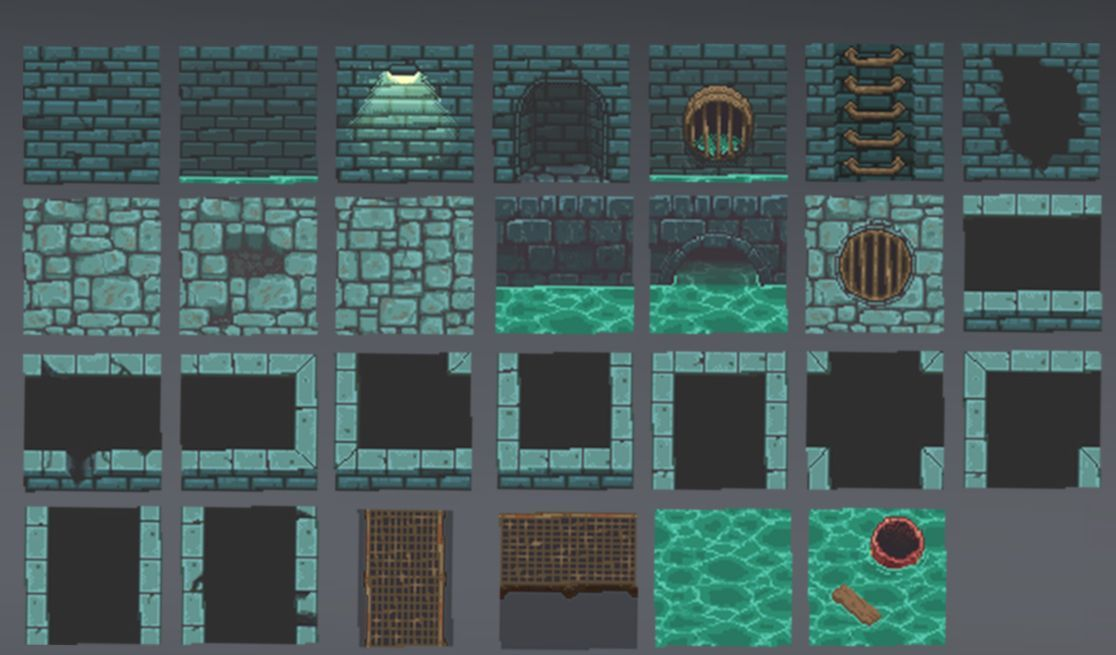
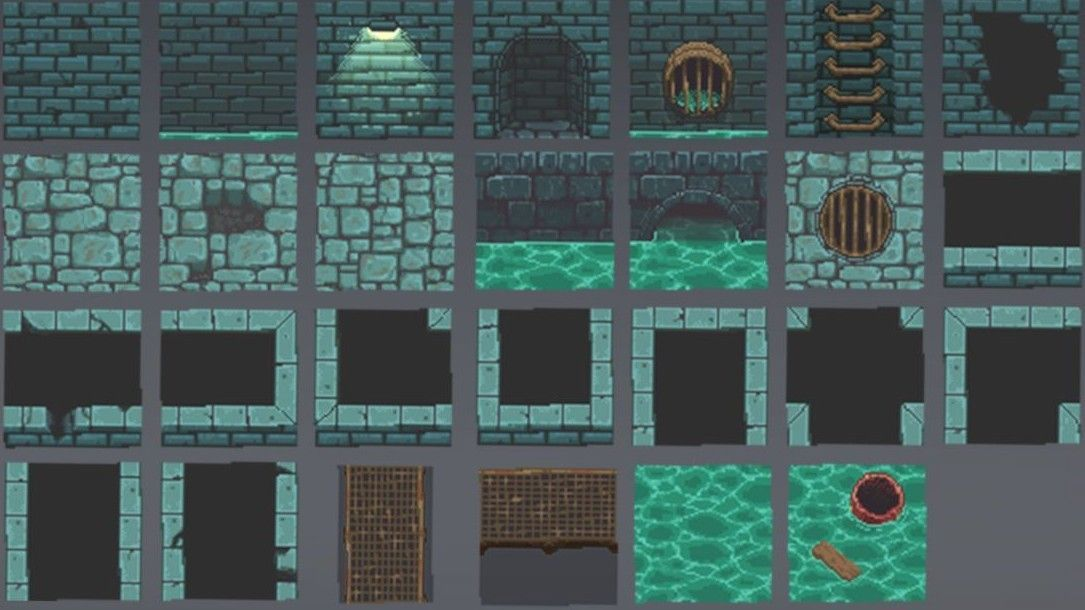
update map

diff --git a/src/main/java/uet/gryffindor/graphic/sprite/Sprite.java b/src/main/java/uet/gryffindor/graphic/sprite/Sprite.java
@@ -109,19 +109,15 @@ public class Sprite {
         rock = new Sprite(0, 0, 256, 256, SpriteSheet.rock);
         wall2D = new Sprite(0, 0, SpriteSheet.wall2D.getWidth(), SpriteSheet.wall2D.getHeight(), SpriteSheet.wall2D);
 
-        tiles = new Sprite[12];
-        tiles[0] = new Sprite(962, 194, 140, 137, SpriteSheet.tiles);
-        tiles[1] = new Sprite(21, 353, 140, 137, SpriteSheet.tiles);
-        tiles[2] = new Sprite(178, 353, 140, 137, SpriteSheet.tiles);
-        tiles[3] = new Sprite(338, 353, 140, 137, SpriteSheet.tiles);
-        tiles[4] = new Sprite(500, 353, 132, 137, SpriteSheet.tiles);
-        tiles[5] = new Sprite(652, 353, 140, 137, SpriteSheet.tiles);
-        tiles[6] = new Sprite(806, 353, 140, 137, SpriteSheet.tiles);
-        tiles[7] = new Sprite(965, 353, 140, 137, SpriteSheet.tiles);
-        tiles[8] = new Sprite(24, 508, 140, 137, SpriteSheet.tiles);
-        tiles[9] = new Sprite(180, 508, 140, 137, SpriteSheet.tiles);
-        tiles[10] = new Sprite(334, 44, 140, 137, SpriteSheet.tiles);
-        tiles[11] = new Sprite(962, 194, 140, 137, SpriteSheet.tiles);
+        tiles = new Sprite[28];
+        // tiles[0] = new Sprite(21, 44, 140, 137, SpriteSheet.tiles);
+        // tiles[1] = new Sprite(178, 353, 140, 137, SpriteSheet.tiles);
+        int x = 0;
+        for (int i = 0; i < 4; i++) {
+            for (int j = 0; j < 7; j++) {
+                tiles[(x++)] = new Sprite(157 * j, 157 * i, 140, 135, SpriteSheet.tiles);
+            }
+        }
 
         tilesFloor = new Sprite(333, 196, 140, 141, SpriteSheet.tiles);
 

diff --git a/src/main/java/uet/gryffindor/game/object/dynamics/Bomb.java b/src/main/java/uet/gryffindor/game/object/dynamics/Bomb.java
@@ -25,7 +25,7 @@ public class Bomb extends GameObject {
         texture = new SpriteTexture(Sprite.bomb[2], this);
         explored = false;
 
-        double rate = 4;
+        double rate = 2;
         aboutToExplore = new Animator(rate, Sprite.bomb);
         orderedLayer = OrderedLayer.MIDGROUND;
 
@@ -107,10 +107,10 @@ public class Bomb extends GameObject {
 
     /** Thêm 1 explosion tại (x,y) */
     public boolean addExplosionAt(int x, int y) {
-        int coordinatesX = x / Sprite.DEFAULT_SIZE;
-        int coordinatesY = y / Sprite.DEFAULT_SIZE;
+        int coordinatesX = (x + Sprite.DEFAULT_SIZE / 2) / Sprite.DEFAULT_SIZE;
+        int coordinatesY = (y + Sprite.DEFAULT_SIZE / 2) / Sprite.DEFAULT_SIZE;
         // nếu vướng tường , return false.
-        if (Manager.INSTANCE.getGame().getPlayingMap().getRawMapAt(coordinatesY, coordinatesX) != 0) {
+        if (entangle(coordinatesX, coordinatesY)) {
             return false;
         } else {
             Explosion e = new Explosion();
@@ -119,6 +119,14 @@ public class Bomb extends GameObject {
             GameObject.objects.add(e);
             return true;
         }
+    }
+
+    public boolean entangle(int coordinatesX, int coordinatesY) {
+        int symbol = Manager.INSTANCE.getGame().getPlayingMap().getRawMapAt(coordinatesY, coordinatesX);
+        if (symbol != 07 && symbol != 01 && symbol != 25 && symbol != 04 && symbol != 26) {
+            return true;
+        }
+        return false;
     }
 
     public void setExplored(boolean explored) {

diff --git a/src/main/java/uet/gryffindor/util/MapParser.java b/src/main/java/uet/gryffindor/util/MapParser.java
@@ -77,7 +77,7 @@ public class MapParser {
         for (int i = 0; i < height; i++) {
           for (int j = 0; j < width; j++) {
             rawMap[i][j] = scanner.nextInt();
-            System.out.print(rawMap[i][j] + " ");
+            // System.out.print(rawMap[i][j] + " ");
             Vector2D position = new Vector2D(j, i);
             GameObject object = decodeSymbol(rawMap[i][j]);
 
@@ -88,7 +88,7 @@ public class MapParser {
             }
 
           }
-          System.out.println();
+          // System.out.println();
         }
 
         Bomber player = new Bomber();
@@ -111,33 +111,12 @@ public class MapParser {
    * @return game object bị mã hóa
    */
   public static GameObject decodeSymbol(Integer symbol) {
-    switch (symbol) {
-    case 1: {
-      return new Tiles(1);
+    if (7 <= symbol && symbol <= 9) {
+      return new StoneFloor(symbol);
+    } else if (0 <= symbol && symbol <= 27) {
+      return new Tiles(symbol);
     }
-    case 2: {
-      return new Tiles(2);
-    }
-    case 4: {
-      return new Tiles(4);
-    }
-    case 6: {
-      return new Tiles(6);
-    }
-    case 7: {
-      return new Tiles(7);
-    }
-    case 9: {
-      return new Tiles(9);
-    }
-    case 10: {
-      return new Tiles(10);
-    }
-    case 11: {
-      return new StoneFloor();
-    }
-    default:
-      return null;
-    }
+    return null;
+
   }
 }

diff --git a/src/main/java/uet/gryffindor/game/object/statics/children/floor/StoneFloor.java b/src/main/java/uet/gryffindor/game/object/statics/children/floor/StoneFloor.java
@@ -6,9 +6,15 @@ import uet.gryffindor.graphic.texture.SpriteTexture;
 import uet.gryffindor.graphic.texture.Texture;
 
 public class StoneFloor extends Floor {
+    private int at;
+
+    public StoneFloor(int at) {
+        this.at = at;
+    }
+
     @Override
     public void start() {
-        texture = new SpriteTexture(Sprite.tilesFloor, this);
+        texture = new SpriteTexture(Sprite.tiles[at], this);
         this.collider.setEnable(false);
     }
 

diff --git a/src/main/java/uet/gryffindor/game/object/dynamics/explosion/Explosion.java b/src/main/java/uet/gryffindor/game/object/dynamics/explosion/Explosion.java
@@ -16,9 +16,9 @@ public class Explosion extends GameObject {
     @Override
     public void start() {
         texture = new SpriteTexture(Sprite.explosion[0], this);
-        double rate = 3;
+        double rate = 1;
         burnOut = new Animator(rate, Sprite.explosion);
-        time = 1200;
+        time = 600;
         startTime = System.currentTimeMillis();
     }
 

diff --git a/src/main/java/uet/gryffindor/game/object/dynamics/Bomber.java b/src/main/java/uet/gryffindor/game/object/dynamics/Bomber.java
@@ -43,7 +43,7 @@ public class Bomber extends GameObject {
   @Override
   public void start() {
     Manager.INSTANCE.getGame().getCamera().setFocusOn(this);
-    speed = new SimpleDoubleProperty(6f);
+    speed = new SimpleDoubleProperty(7f);
     texture = new SpriteTexture(Sprite.player_stand, this);
 
     double rate = 4;

diff --git a/src/main/java/uet/gryffindor/game/Game.java b/src/main/java/uet/gryffindor/game/Game.java
@@ -18,7 +18,7 @@ public class Game {
   private GraphicsContext context;
 
   public Game(Canvas canvas) {
-    FpsTracker.setFps(40);
+    FpsTracker.setFps(30);
     camera = new Camera(new Vector2D(canvas.getWidth(), canvas.getHeight()));
     context = canvas.getGraphicsContext2D();
 
